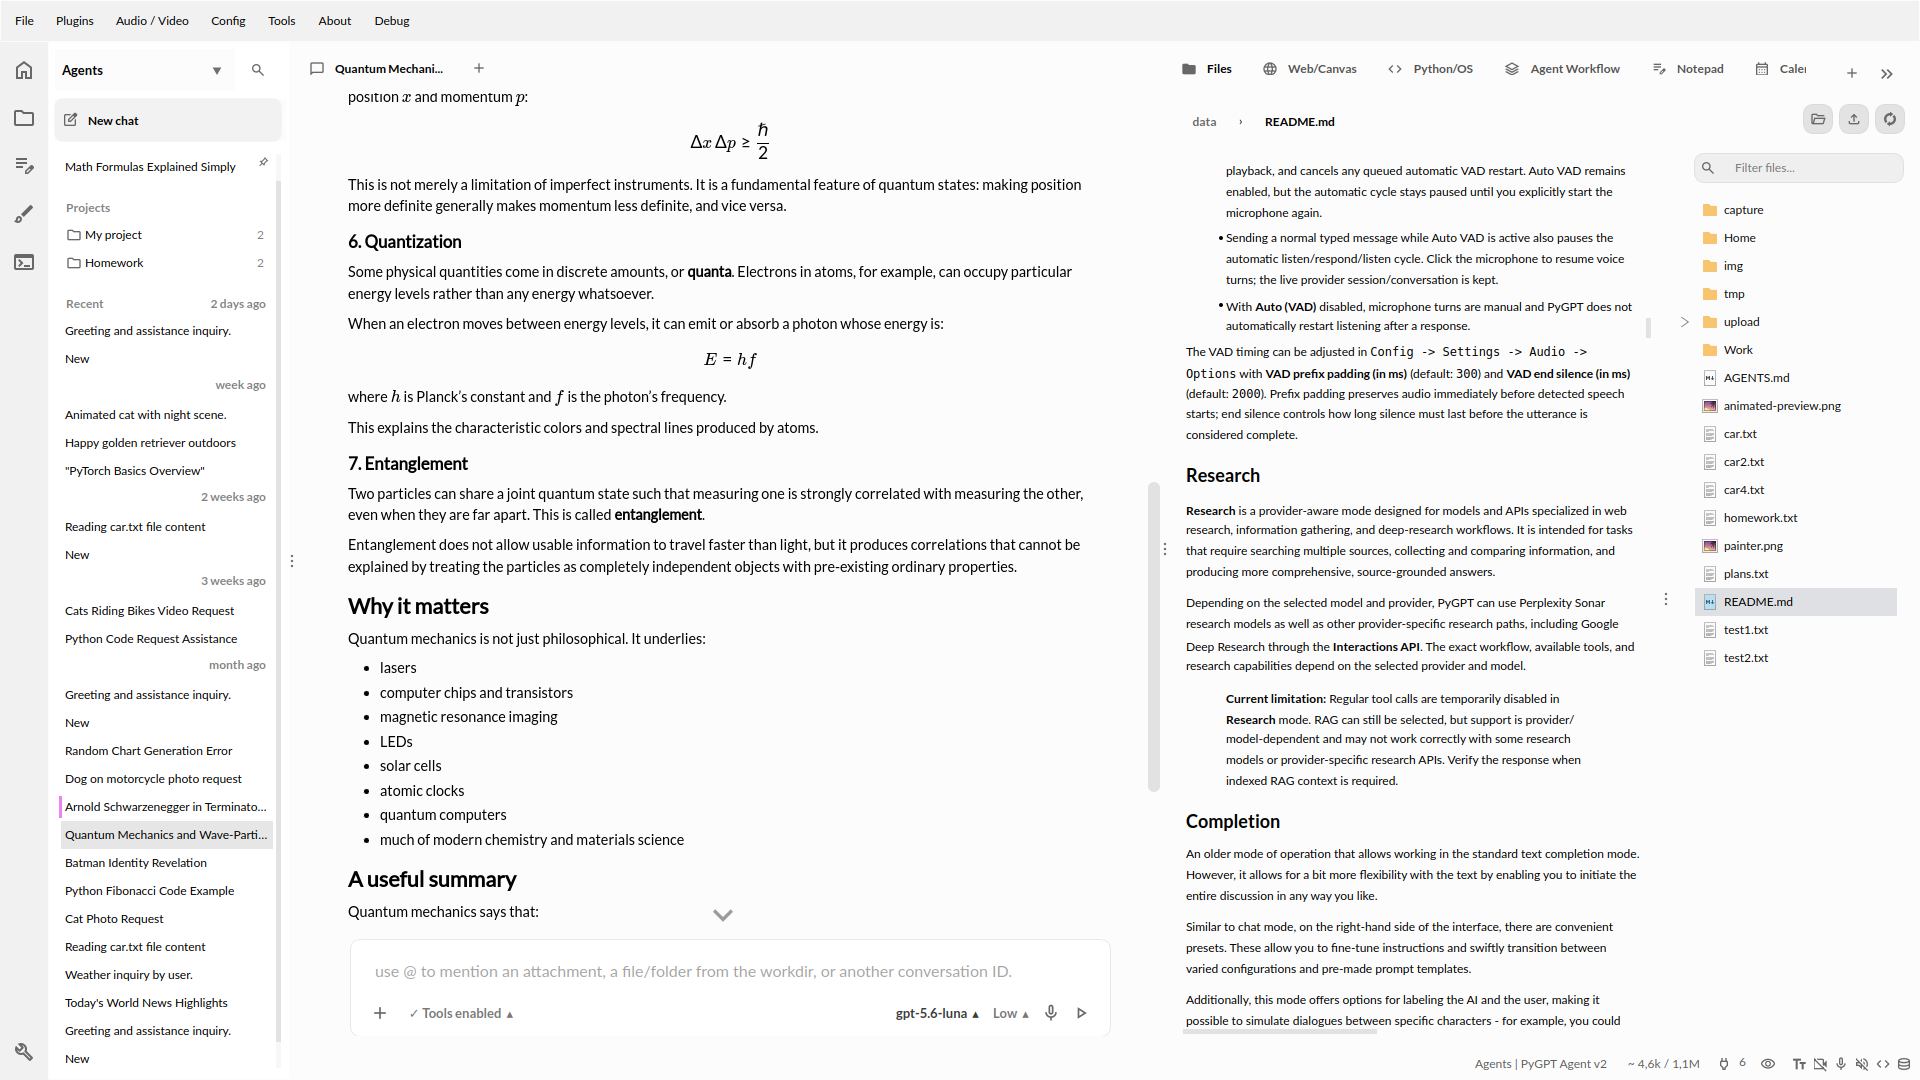
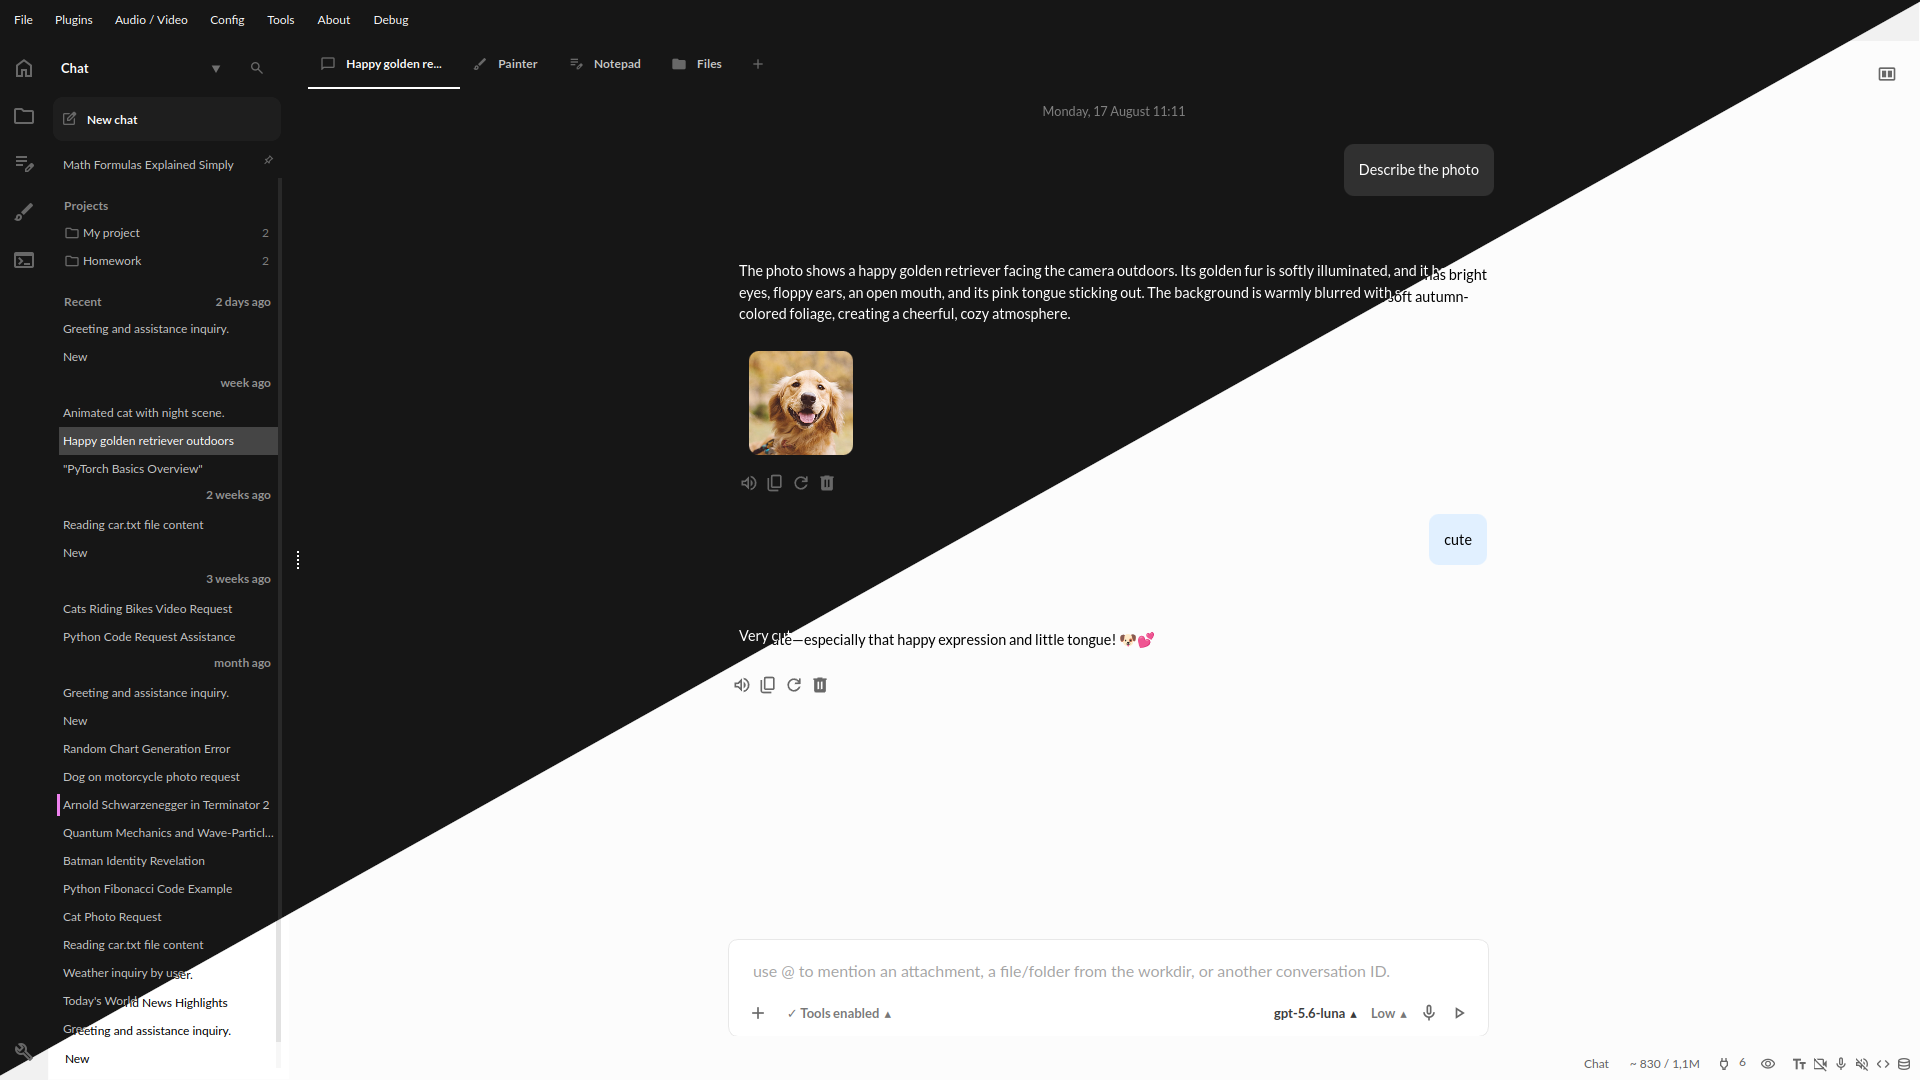
Release: 2.9.0

diff --git a/tests/tools/web_browser/test_tools_web_browser_widget_navigation.py b/tests/tools/web_browser/test_tools_web_browser_widget_navigation.py
@@ -15,6 +15,7 @@ def _widget():
     scroll.viewport.return_value = viewport
 
     tool = SimpleNamespace(
+        runtime_root=SimpleNamespace(release_runtime=MagicMock()),
         viewport=SimpleNamespace(
             detach_surface=MagicMock(),
             request_viewport_policy=MagicMock(),
@@ -62,13 +63,14 @@ def _widget():
     )
 
 
-def test_web_browser_widget_on_delete_disconnects_hooks_and_detaches_surface():
+def test_web_browser_widget_on_delete_disconnects_hooks_and_releases_runtime():
     obj = _widget()
 
     ToolWidget.on_delete(obj)
 
     obj._disconnect_viewport_hooks.assert_called_once_with()
-    obj.tool.viewport.detach_surface.assert_called_once_with(obj)
+    obj.tool.runtime_root.release_runtime.assert_called_once_with(obj.tool)
+    obj.tool.viewport.detach_surface.assert_not_called()
 
 
 def test_web_browser_widget_set_tab_and_open_url_use_persistent_runtime():
@@ -213,6 +215,7 @@ def test_canvas_tracks_clicks_in_replaced_render_children_without_consuming_inpu
     monkeypatch.setattr(widgets, 'BrowserOutput', lambda *args: QWidget())
     monkeypatch.setattr(widgets, 'SourceEditor', lambda tool, parent: QPlainTextEdit(parent))
     tool = MagicMock()
+    tool._closing = False
     viewport = widgets.BrowserViewport(tool=tool)
     renderer = RenderChild(viewport.web)
     renderer.resize(200, 100)
@@ -241,6 +244,7 @@ def test_canvas_sandbox_and_source_clicks_select_the_session(qapp, monkeypatch):
     monkeypatch.setattr(widgets, 'BrowserOutput', lambda *args: QWidget())
     monkeypatch.setattr(widgets, 'SourceEditor', lambda tool, parent: QPlainTextEdit(parent))
     tool = MagicMock()
+    tool._closing = False
     viewport = widgets.BrowserViewport(tool=tool)
     viewport.set_mode('playwright')
     tool.viewport.on_user_interaction.reset_mock()

diff --git a/tests/core/test_config.py b/tests/core/test_config.py
@@ -214,15 +214,30 @@ def test_get_user_dir_data_dir_and_unknown(tmp_path):
 
 def test_get_workdir_prefix_switches_for_sandbox():
     cfg = _bare_config()
-    cfg.get_user_dir = MagicMock(return_value="/user/data")
     plugins = MagicMock()
-    filesystem = SimpleNamespace(get_data_dir=MagicMock(return_value='/user/data'))
-    cfg.window = SimpleNamespace(core=SimpleNamespace(plugins=plugins, filesystem=filesystem))
+    controller_plugins = MagicMock()
+    filesystem = SimpleNamespace(get_data_dir=MagicMock(return_value="/user/data"))
+    cfg.window = SimpleNamespace(
+        core=SimpleNamespace(plugins=plugins, filesystem=filesystem),
+        controller=SimpleNamespace(plugins=controller_plugins),
+    )
 
-    plugins.get_option.return_value = "disabled"
+    controller_plugins.is_enabled.return_value = False
     assert cfg.get_workdir_prefix() == "/user/data"
-    plugins.get_option.return_value = "docker"
-    assert cfg.get_workdir_prefix() == "/mnt/data"
+    plugins.get.assert_not_called()
+
+    controller_plugins.is_enabled.return_value = True
+    plugin = plugins.get.return_value
+    plugin.get_runtime_workdir.return_value = "/mnt/data"
+    ctx = object()
+    assert cfg.get_workdir_prefix(ctx=ctx) == "/mnt/data"
+    controller_plugins.is_enabled.assert_called_with("cmd_code_interpreter")
+    plugins.get.assert_called_once_with("cmd_code_interpreter")
+    plugin.get_runtime_workdir.assert_called_once_with(ctx=ctx)
+    filesystem.get_data_dir.assert_called_with(ctx=ctx)
+
+    plugins.get.return_value = None
+    assert cfg.get_workdir_prefix() == "/user/data"
 
 
 def test_plugin_config_update_and_remove():

diff --git a/tests/core/docker/test_core_docker_contract.py b/tests/core/docker/test_core_docker_contract.py
@@ -7,7 +7,7 @@ from unittest.mock import MagicMock
 import pytest
 
 import pygpt_net.core.docker.docker as mod
-from pygpt_net.core.docker.docker import Docker, _normalize_dockerfile, get_sandbox_user_ids, migrate_default_dockerfile
+from pygpt_net.core.docker.docker import Docker, get_sandbox_user_ids
 
 
 def make_plugin(values=None, options=None):
@@ -27,33 +27,6 @@ def make_plugin(values=None, options=None):
         get_option_value=MagicMock(side_effect=lambda key: values.get(key)),
     )
     return plugin, config
-
-
-def test_normalize_dockerfile_dedents_strips_and_trims_lines():
-    raw = """
-        FROM python:3.12   
-        RUN echo hi    
-    """
-    assert _normalize_dockerfile(raw) == "FROM python:3.12\nRUN echo hi"
-    assert _normalize_dockerfile(None) == ""
-
-
-def test_migrate_default_dockerfile_only_when_unchanged():
-    plugin, config = make_plugin(
-        values={"dockerfile": "  FROM old  \n"},
-        options={"dockerfile": {"value": "old"}},
-    )
-    assert migrate_default_dockerfile(plugin, "dockerfile", "FROM old", "FROM new") is True
-    assert plugin.options["dockerfile"]["value"] == "FROM new"
-    config.update_plugin_config.assert_called_once_with("plugin-x", "dockerfile", "FROM new")
-    config.save.assert_called_once_with()
-
-    plugin, config = make_plugin(
-        values={"dockerfile": "FROM custom"},
-        options={"dockerfile": {"value": "custom"}},
-    )
-    assert migrate_default_dockerfile(plugin, "dockerfile", "FROM old", "FROM new") is False
-    config.update_plugin_config.assert_not_called()
 
 
 def test_get_sandbox_user_ids_linux_and_fallback(monkeypatch):

diff --git a/tests/tools/web_browser/test_tools_web_browser_core.py b/tests/tools/web_browser/test_tools_web_browser_core.py
@@ -51,7 +51,7 @@ def _tool():
 
     # Core tests use a mocked viewport; real load completion is covered by
     # dedicated Qt backend tests and the WebEngine integration check.
-    tool.qt.load_html = MagicMock(side_effect=lambda html, base_url: tool.surface.web.setHtml(html, base_url))
+    tool.qt.load_html = MagicMock(side_effect=lambda html, base_url, *, wait=True: tool.surface.web.setHtml(html, base_url))
     return tool
 
 
@@ -415,7 +415,7 @@ def test_canvas_html_and_navigation_state_are_independent_per_runtime(qapp):
         runtime.surface = SimpleNamespace(web=MagicMock())
         runtime.viewport.ensure_surface = MagicMock(return_value=runtime.surface)
         runtime.qt.eval = lambda script, runtime=runtime: runtime.runtime_html
-        runtime.qt.load_html = lambda html, base_url, runtime=runtime: runtime.surface.web.setHtml(html, base_url)
+        runtime.qt.load_html = lambda html, base_url, runtime=runtime, *, wait=True: runtime.surface.web.setHtml(html, base_url)
         tool.register_surface(runtime, widget, tab=tab)
         runtimes.append(runtime)
         widgets.append(widget)

diff --git a/tests/plugin/cmd_system/test_plugin_cmd_system.py b/tests/plugin/cmd_system/test_plugin_cmd_system.py
@@ -6,7 +6,6 @@ from pygpt_net.item.ctx import CtxItem
 from pygpt_net.plugin.cmd_system import Plugin
 from pygpt_net.plugin.cmd_system.output import Output
 from pygpt_net.plugin.cmd_system.worker import Worker
-from pygpt_net.plugin.cmd_system.sandbox import SandboxMode
 from tests.mocks import mock_window
 
 
@@ -17,16 +16,6 @@ def test_system_defaults_include_new_attach_output_option(mock_window):
     assert options["attach_output"]["value"] is True
     assert options["winapi_enabled"]["value"] is True
     assert plugin.has_cmd("sys_exec") is True
-
-
-def test_migrate_docker_defaults_delegates(mock_window):
-    plugin = Plugin(window=mock_window)
-    backend = plugin.execution.get_backend(SandboxMode.DOCKER)
-    backend.migrate_defaults = MagicMock(return_value=True)
-
-    assert plugin.migrate_docker_defaults() is True
-
-    backend.migrate_defaults.assert_called_once_with()
 
 
 def test_cmd_syntax_linux_hides_winapi_and_appends_cwd(mock_window):

diff --git a/tests/tools/web_browser/test_tools_web_browser_qt_loading.py b/tests/tools/web_browser/test_tools_web_browser_qt_loading.py
@@ -34,18 +34,19 @@ class Web:
 
     def setHtml(self, html, base_url):
         self.submitted = (html, base_url)
-        # Completion of the old document must not acknowledge this update.
-        self.old_page.loadFinished.emit(True)
+        # An interrupted load must not acknowledge the new document.
         self.current_page.loadFinished.emit(False)
         if self.succeed:
             self.current_page.loadFinished.emit(True)
 
 
-def test_html_load_waits_for_new_page_and_ignores_aborted_load(qapp):
+def test_html_load_preserves_page_and_ignores_aborted_load(qapp):
     web = Web()
     backend = QtBackend(SimpleNamespace(surface=SimpleNamespace(web=web)))
+    page = web.page()
     backend.load_html('<canvas>cat</canvas>', QUrl('about:blank'), timeout_ms=100)
-    assert web.old_page is not web.current_page
+    assert web.page() is page
+    assert web.old_page is None
     assert web.submitted[0] == '<canvas>cat</canvas>'
 
 

diff --git a/tests/core/render/web/test_core_syntax_highlight_files.py b/tests/core/render/web/test_core_syntax_highlight_files.py
@@ -11,7 +11,10 @@ def make_highlighter(tmp_path, current="monokai"):
     (styles / "monokai.min.css").write_text("mono")
     (styles / "monokai.css").write_text("duplicate")
     config = SimpleNamespace(get_app_path=MagicMock(return_value=str(tmp_path)), get=MagicMock(return_value=current))
-    window = SimpleNamespace(core=SimpleNamespace(config=config))
+    window = SimpleNamespace(
+        core=SimpleNamespace(config=config),
+        controller=SimpleNamespace(theme=SimpleNamespace(is_dark_theme=MagicMock(return_value=True))),
+    )
     return SyntaxHighlight(window)
 
 
@@ -28,4 +31,4 @@ def test_style_exists_current_fallback_and_defs(tmp_path):
 
 def test_get_styles_deduplicates_minified_and_regular_names(tmp_path):
     h = make_highlighter(tmp_path)
-    assert h.get_styles() == ["default", "monokai"]
+    assert h.get_styles() == ["-", "default", "monokai"]

diff --git a/tests/core/render/web/test_web_body.py b/tests/core/render/web/test_web_body.py
@@ -100,6 +100,7 @@ def test_prepare_styles():
     win = FakeWindow(config_data)
     b = Body(win)
     b.highlight.get_style_defs = lambda: "dummy-style"
+    b.highlight.get_style = lambda: config_data["render.code_syntax"]
     style = b.prepare_styles()
     assert "dummy-style" in style
     assert "pre { color: #fff; }" in style
@@ -108,6 +109,7 @@ def test_prepare_styles():
     win = FakeWindow(config_data)
     b = Body(win)
     b.highlight.get_style_defs = lambda: "dummy-style"
+    b.highlight.get_style = lambda: config_data["render.code_syntax"]
     style = b.prepare_styles()
     assert "pre { color: #000; }" in style
 

diff --git a/tests/tools/code_interpreter/test_tools_code_interpreter_body.py b/tests/tools/code_interpreter/test_tools_code_interpreter_body.py
@@ -19,9 +19,10 @@ def _body(syntax="default", blocks=True, edit_icons=True, style="blocks"):
     body = Body.__new__(Body)
     body.window = SimpleNamespace(
         core=SimpleNamespace(config=config),
-        controller=SimpleNamespace(theme=SimpleNamespace(markdown=markdown)),
+        controller=SimpleNamespace(theme=SimpleNamespace(markdown=markdown, is_dark_theme=MagicMock(return_value=False))),
     )
     body.highlight = MagicMock()
+    body.highlight.get_style.return_value = syntax
     body.highlight.get_style_defs.return_value = ".hljs{}"
     return body
 

diff --git a/tests/controller/ctx/test_controller_ctx_extra.py b/tests/controller/ctx/test_controller_ctx_extra.py
@@ -81,7 +81,7 @@ def test_ctx_extra_preview_uses_canvas_and_run_code_uses_code_interpreter():
     extra.window.tools.get.assert_called_once_with("web_browser")
     browser.runtime_call.assert_called_once_with(
         "canvas_set_html",
-        {"html": "<b>x</b>", "__workdir": "/data"},
+        {"html": "<b>x</b>", "__workdir": "/data", "__ui": True},
     )
     interpreter.handle_python_run.assert_called_once_with("print(1)")
 

diff --git a/tests/tools/files/test_inline_preview.py b/tests/tools/files/test_inline_preview.py
@@ -199,7 +199,7 @@ def test_dark_highlighting_is_correct_on_show_and_theme_change(app, tmp_path):
     panel.viewer.highlighter.timer.stop()
     panel.viewer.highlighter.refresh()
     color = panel.viewer.highlighter.formats[Name.Function].foreground().color()
-    assert color.name() == '#6e6693'
+    assert color.name() == '#8000ff'
     panel.close()
     panel.deleteLater()
 

diff --git a/README.md b/README.md
@@ -2,7 +2,7 @@
 
 [![pygpt](https://snapcraft.io/pygpt/badge.svg)](https://snapcraft.io/pygpt)
 
-Release: **2.8.38** | build: **2026-10-03** | Python: **>=3.10, <3.14**
+Release: **2.9.0** | build: **2026-10-04** | Python: **>=3.10, <3.14**
 
 > Official website: [pygpt.net](https://pygpt.net) | [Documentation](https://pygpt.readthedocs.io) | [Add-ons](https://github.com/szczyglis-dev/py-gpt-addons) | [Discord](https://pygpt.net/discord)
 > 
@@ -25,6 +25,9 @@ Dark theme:
 
 Light theme:
 ![v2_light](https://github.com/szczyglis-dev/py-gpt/raw/master/docs/source/images/v2_light.png)
+
+Split-screen:
+![v2_main4](https://github.com/szczyglis-dev/py-gpt/raw/master/docs/source/images/v2_main4.png)
 
 You can download compiled 64-bit versions for Windows and Linux here: https://pygpt.net/#download
 
@@ -1982,6 +1985,7 @@ PyGPT features several useful tools, including:
 - OpenAI Vector Stores
 - Google Vector Stores
 - Python/OS
+- Terminal
 - HTML/JS Canvas (built-in HTML renderer)
 - Translator
 - Canvas
@@ -2049,6 +2053,14 @@ Remote vector stores management.
 This tool allows you to run Python code directly from within the app. It is integrated with the `Python interpreter` plugin. **Use IPython** selects IPython (default) or standard Python, while **Sandbox** selects host execution (**Disabled**), the **Built-in sandbox** based on a uv-managed CPython environment, or **Docker**. Docker provides the strongest isolation; the built-in sandbox separates the execution environment from PyGPT itself and does not require Docker, but it is not a filesystem/network security boundary. In Docker mode the active conversation data workdir is available as `/mnt/data`.
 
 Docker installation: [Docker Engine](https://docs.docker.com/engine/install/) | [Docker Desktop](https://docs.docker.com/desktop/)
+
+## Terminal
+
+The built-in Terminal runs an interactive system shell directly in PyGPT. Open it from **Tools -> Terminal**, the left toolbar, or **[+] -> Add a new terminal**. Each terminal tab and the dialog have an independent session, starting in the active Files working directory. Linux and macOS use the user's shell; Windows uses PowerShell 7 when available, otherwise Command Prompt.
+
+The terminal supports ANSI colors, fullscreen text applications, text selection, resizing, and 2000 lines of scrollback. Use the mouse wheel or scrollbar to browse output, **Ctrl+Shift+C** to copy, **Ctrl+Shift+V** to paste, and **Ctrl+C** to interrupt the foreground command. **Ctrl+mouse wheel** and the context-menu **Zoom** submenu adjust the terminal font size independently of the text editors.
+
+Commands run locally with the permissions of the user running PyGPT. Closing a terminal tab or dialog ends its shell; restoring a saved layout starts a new session rather than resuming previous processes. Graphics protocols and terminal mouse reporting are not supported.
 
 ## HTML/JS Canvas
 
@@ -2507,6 +2519,20 @@ may consume additional tokens that are not displayed in the main window.
 # CHANGELOG
 
 ## Recent changes:
+
+**2.9.0 (2026-10-04)**
+
+ - Modernized the layout: moved the toolbox to the left, hidden it by default, and added a dynamic right column.
+- Added a toolbar on the left.
+- Added a new Terminal tool.
+- Added pending input submission during generation, with interruption and continuation of active turns.
+- Refined agent instructions, execution workflows, and progress reporting.
+- Improved UI and UX.
+- Simplified attachment uploads.
+- Refactored the tools core.
+- Improved tab management and added support for opening new browser tabs.
+- Optimized layout updates.
+- Added many other improvements and fixes.
 
 **2.8.38 (2026-10-03)**
 
